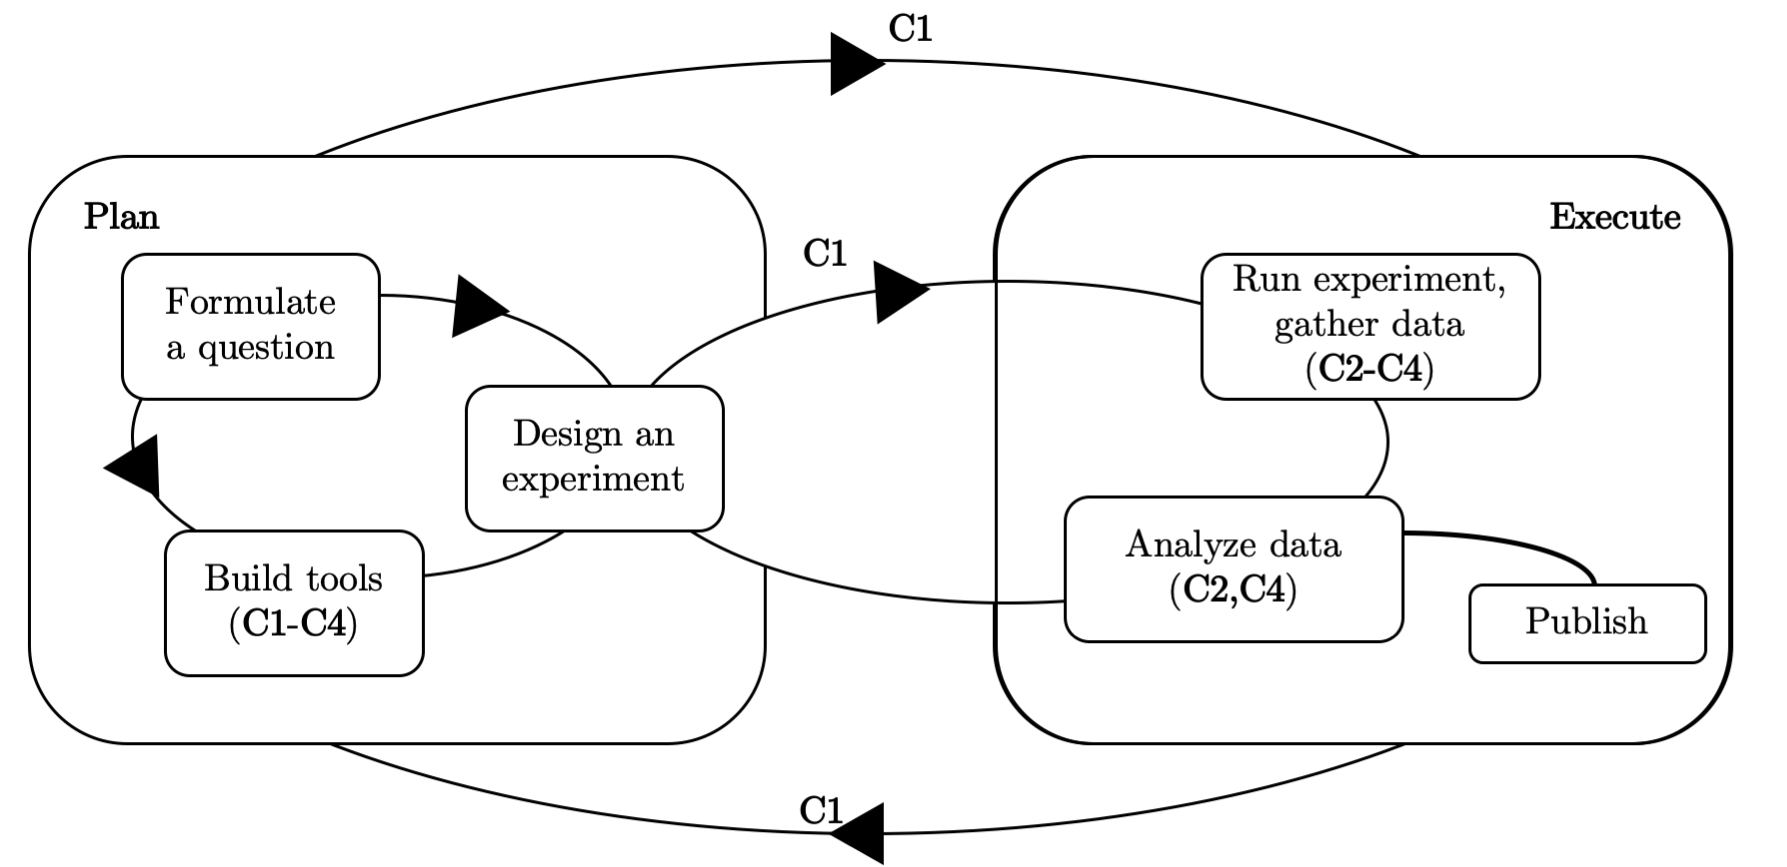
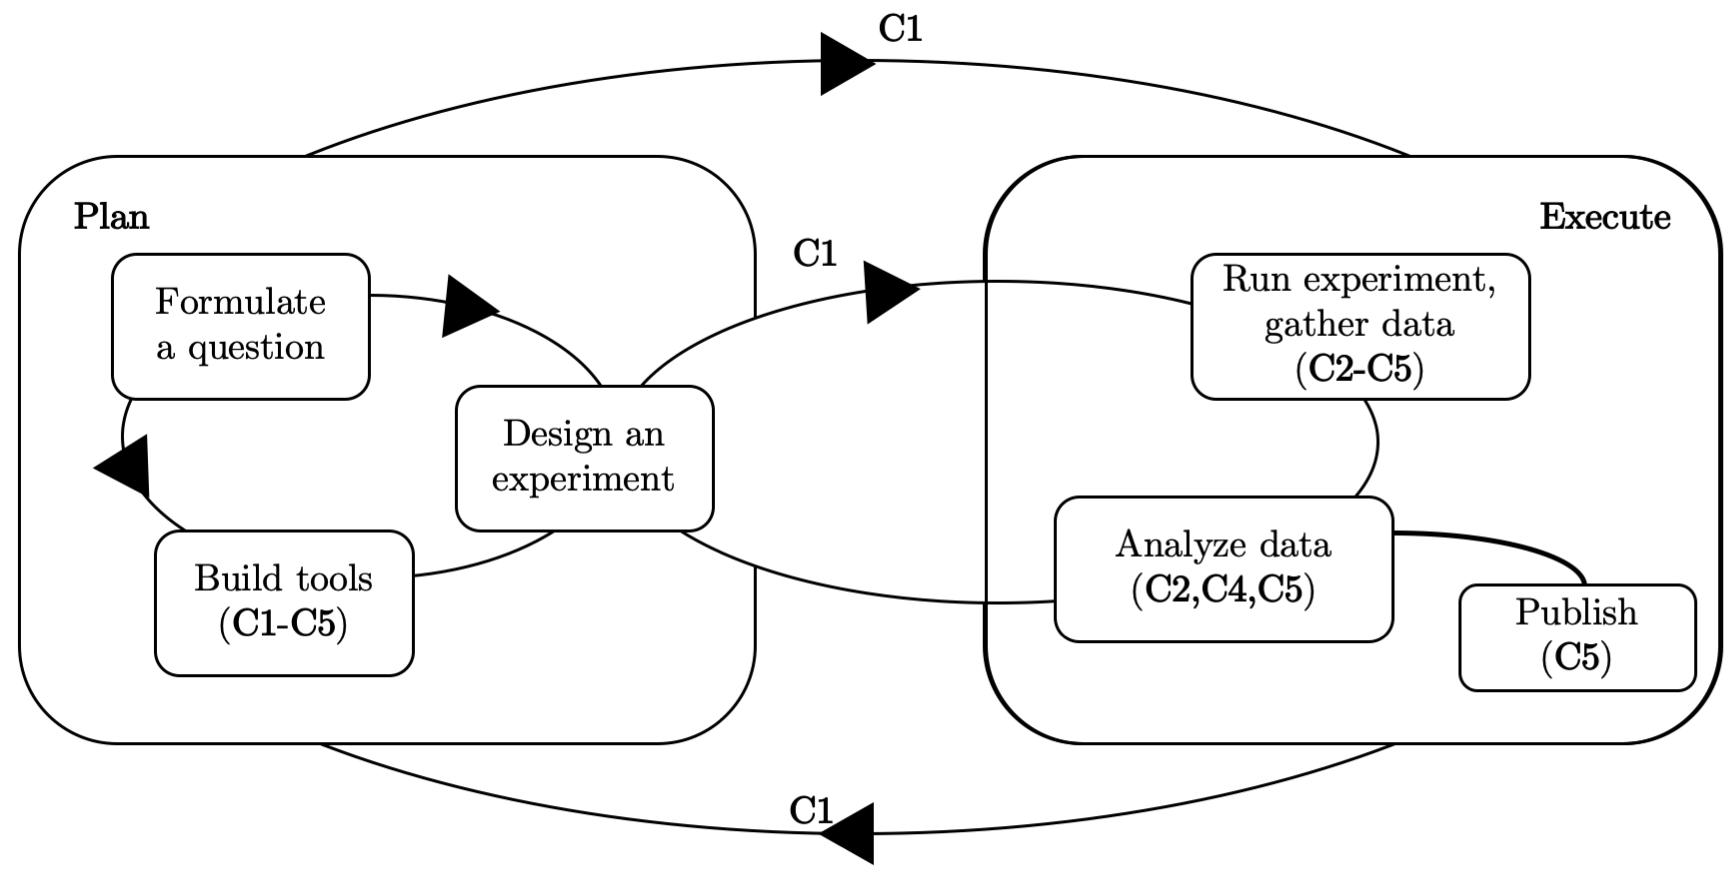
Updated list of challenges.

diff --git a/running-experiments.tex b/running-experiments.tex
@@ -154,16 +154,17 @@ of the code base
 \end{figure}
 We define the following challenges in the  evaluation of large-scale experiments:
 \begin{enumerate}
-  \item[(C1)] \textbf{Feedback Loops by Design.} The implementations and tools support the iterative nature of an experimental study.
+  \item[(C1)] \textbf{Feedback Loops-by-Design.} The implementations and tools support the iterative nature of an experimental study.
   \item[(C2)] \textbf{Economic Execution.} Exactly those experiments that change through code changes have to be re-run, but nothing else. 
   Moreover, only the changing parts of the experimental evaluation should be recomputed.
-  \item[(C3)] \textbf{Versioning.} The ability to go back in time and compare old results to more recent ones, finding regression or bugs.
+  \item[(C3)] \textbf{Versioning.} The ability to go back in time and compare old results to more recent ones, finding regression or bugs. This requires an \emph{append-only} workflow.
   \item[(C4)] \textbf{Machine independence.} Code and tools are designed in a way that allow them to run in a general setting.
+  \item[(C5)] \textbf{Reproducibility-by-Design.} We strive for an automatic workflow that processes an experimental setup into resulting measurements used for evaluating the experiment. Results to be included into a publication should not require manual work to transform these measurements into tables and plots.
 \end{enumerate}
 %
 We will detail these challenges in the following. 
 
-Typically, an experimental evaluation spans several weeks, if not months. An overview over a typical experimental evaluation is given in Figure~\ref{fig:overview}. 
+Typically, an experimental evaluation spans several weeks, if not months. An overview of a typical experimental evaluation is given in Figure~\ref{fig:overview}. 
 During this time, the experiments being run have different meanings: early
 on, during the initial development, experiments are useful to find out the most
 appropriate parameter ranges, find bugs, and check assumptions; later on,
@@ -194,7 +195,7 @@ obsolete results from the analysis, undermining the confidence in the soundness
 of the whole analysis.
 The situation worsens in the rushed final days preceding a submission:
 some last minute changes are made, there is no time to re-run all the experiments,
-the possibility of erroneously mixing results is very concrete. Additionally, reviewers will often demand running a new set of experiments, reporting on some other quality measures, or experiments using different computer architectures (C2, C3, C4).
+the possibility of erroneously mixing results is very concrete. Additionally, reviewers will often demand running a new set of experiments, reporting on some other quality measures, or experimentation using different computer architectures (C2, C3, C4). \emph{Reproducibility-By-Design} (C5) requires that such wishes can be accomodated since the whole process from starting at an experimental design to a published table or figure is automated.
 
 As for the analysis itself, it is usually executed on a machine different from the
 experimental code, using a different programming language (C4).
@@ -357,8 +358,8 @@ shared between all the components.
 
 Some of the challenges we identified are related to the management of the results
 of the experiments themselves.
-Using a structured file format like CSV meets some of the requirements, like begin
-easy to produce and use and easily transferrable between machines.
+Using a structured file format like CSV meets some of the requirements, like being
+easy to produce and use, and easily transferrable between machines.
 However, being a text-based format makes its parsing is very expensive, and
 the entire dataset needs to be loaded in main memory at the beginning
 of the analysis, even when we are only interested in a subset of it.\footnote{
